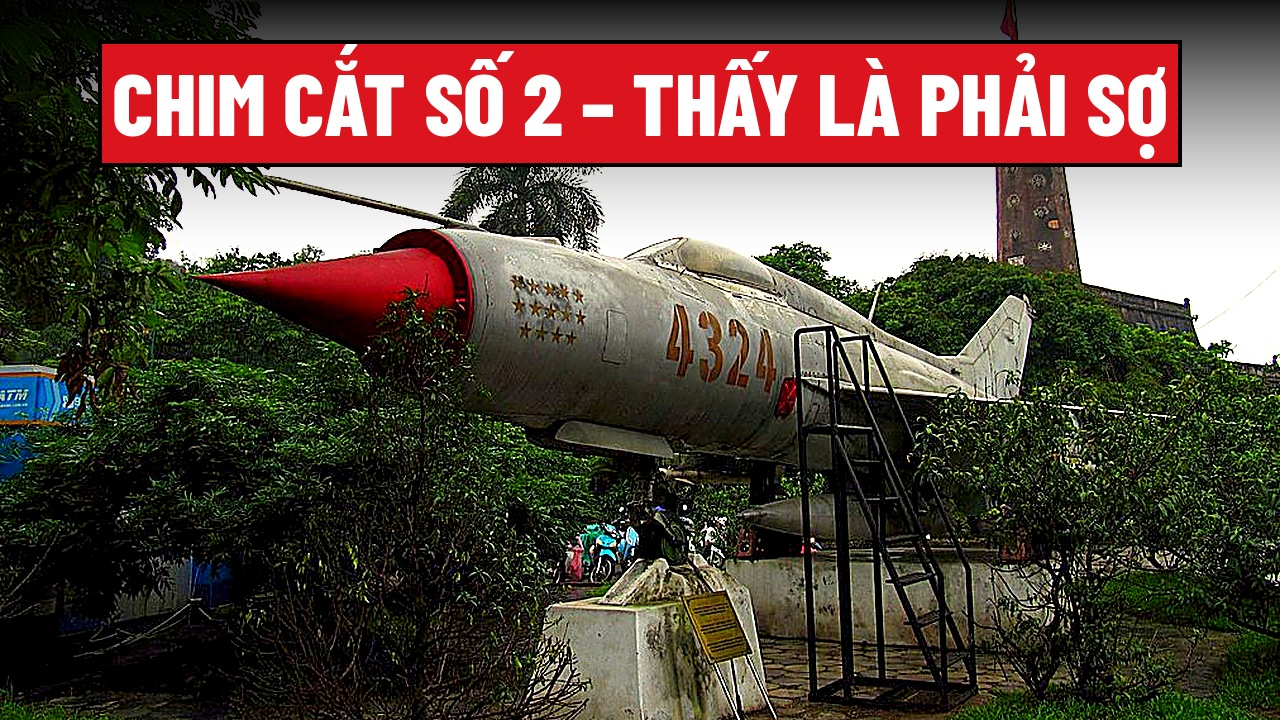
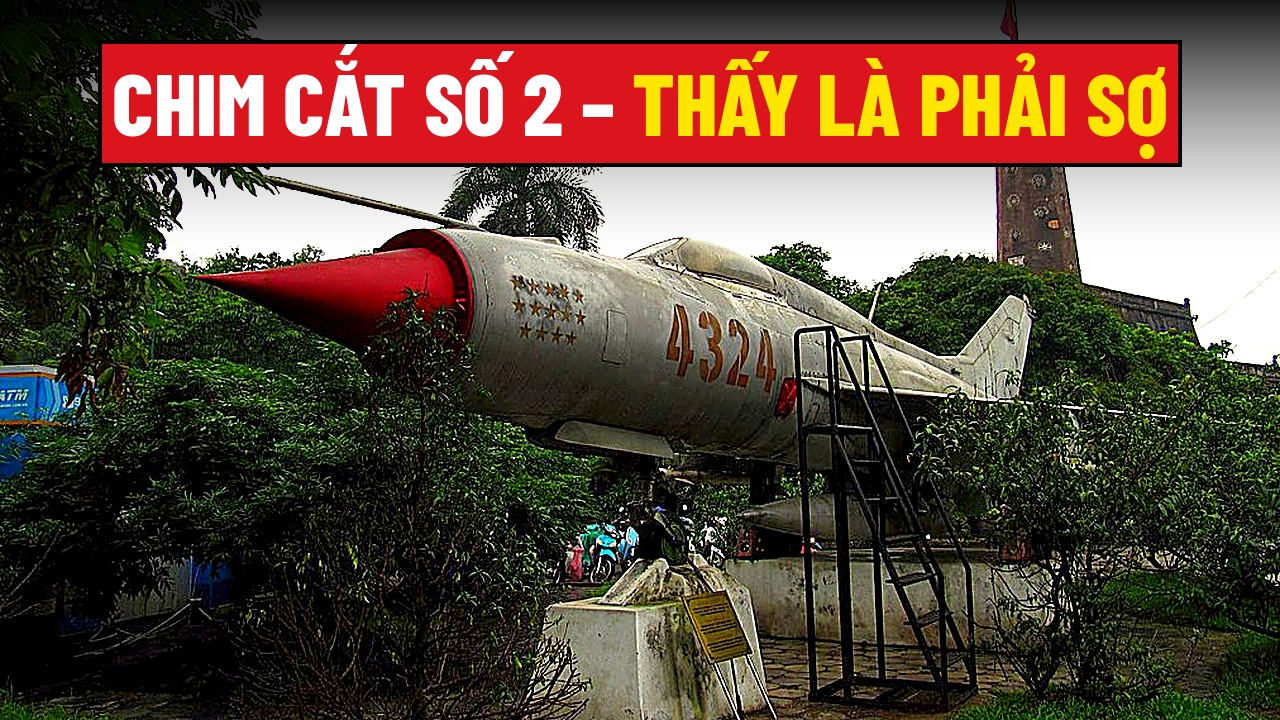
Nguyen Van Coc: thumbnail B yellow highlight
Claude-Session: https://claude.ai/code/session_01JvG4R3Cs2ymAmnJ5tp5sN5

Changed region(s): [[0.4688, 0.0611, 0.9375, 0.2139]]

diff --git a/video/scripts/coc/make_thumb_tc.py b/video/scripts/coc/make_thumb_tc.py
@@ -16,5 +16,7 @@ else:
     d = ImageDraw.Draw(im); f = ImageFont.truetype(FONT, 88); t = "CHIM CẮT SỐ 2 – THẤY LÀ PHẢI SỢ"
     w = d.textlength(t, font=f)
     d.rectangle([640 - w / 2 - 14, 40, 640 + w / 2 + 14, 166], fill=(220, 20, 30), outline=(0, 0, 0), width=4)
-    d.text((640 - w / 2, 48), t, font=f, fill=WHITE)
+    a = "CHIM CẮT SỐ 2 – "; x0 = 640 - w / 2
+    d.text((x0, 48), a, font=f, fill=WHITE)
+    d.text((x0 + d.textlength(a, font=f), 48), "THẤY LÀ PHẢI SỢ", font=f, fill=YEL)
     im.save("thumb-coc-B.jpg", quality=93)
